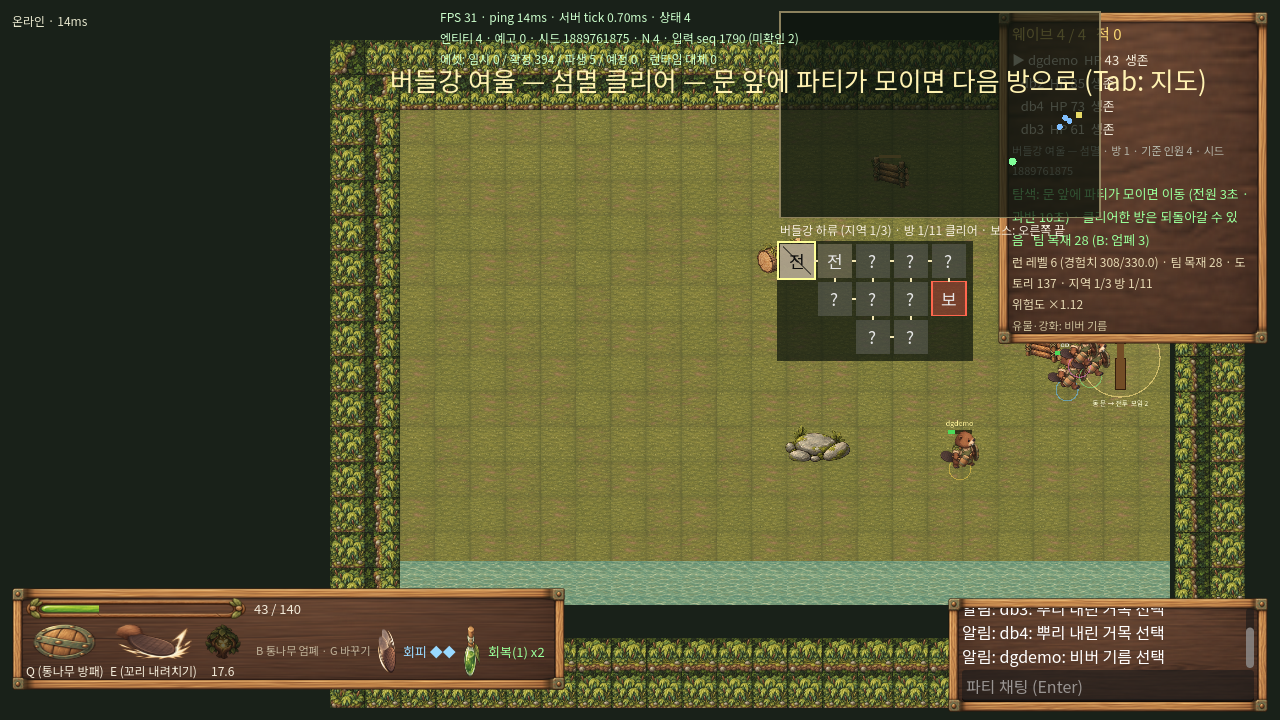
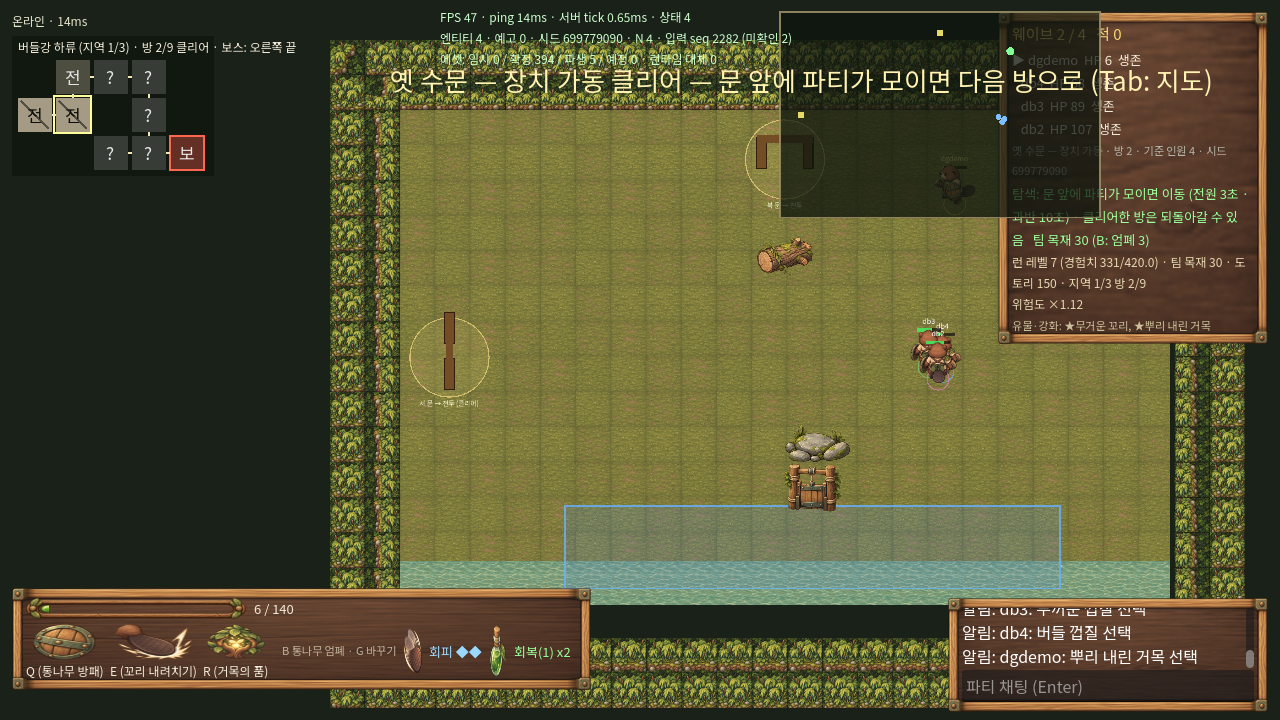
던전 격자 지도를 화면 좌측 상단 구석으로 이동 (DungeonMap 컨트롤 분리)
- client/ui/dungeon_map.gd: 격자·현재 방·보스·문·유형 글자를 그리는 독립 컨트롤, 제목 줄(지역·클리어 수·보스 위치), Tab 확대
- room_hud: 접속 상태 줄 아래 (16, 40) 에 배치. 미니맵은 방 지도만 그린다
- 스크린샷·README·설계 문서 갱신

Claude-Session: https://claude.ai/code/session_01N8xJymo9FGyYVNv94d4Kf7

diff --git a/README.md b/README.md
@@ -38,7 +38,7 @@ scripts/run_client.sh --connect=127.0.0.1:7777
 ## 플레이 흐름
 서버 주소 입력 → 계정 생성/로그인(서버 내부 계정) → 공용 마을(WASD 이동, F 로 NPC 대화·퀘스트, 채팅, 시설 복구, 숙련 특성 선택) → 원정 모집판에서 직업·난이도를 고르고 **새 원정 만들기** 또는 **참가**(최대 4명, 혼자도 가능, 안전 지점 중도 합류) → 준비 완료 → 출정. 처음이면 **튜토리얼** 버튼(혼자, 5분).
 
-원정(3지역, 지역마다 **던파식 방 격자** 5×3에 방 9~11개): 버들강 하류 → 검은 수액 습지 → 고대 뿌리댐. 왼쪽 열의 시작 방에서 오른쪽 끝의 보스 방까지 문으로 이어진 방을 걸어서 고른다. 전투방 클리어 → **보상 3지선다**(유물·스킬 강화·진화) → 같은 방의 **문이 열리고**, 문 앞에 파티가 모이면(전원 3초 · 과반 10초) 옆 방으로 이동. 옆길에는 정예·보물·상점·모닥불·사건 방이 있고, 클리어한 방은 되돌아갈 수 있다(적 재출현 없음). 미니맵(Tab)에 격자·현재 방·보스 위치가 보이고 이웃 방 유형은 옆에 가야 드러난다. 지역 보스 → 다음 지역 → … → 뿌리왕 → 결말(기본/정화). 방 목표는 섬멸·거점·장치·호위 + 정예전. 보상·메뉴·탐색(문 이동 대기) 상태마다 체크포인트가 저장되고, 안전 지점에서 **원정 중단**하면 모집판의 **이어하기**로 같은 자리에서 계속한다.
+원정(3지역, 지역마다 **던파식 방 격자** 5×3에 방 9~11개): 버들강 하류 → 검은 수액 습지 → 고대 뿌리댐. 왼쪽 열의 시작 방에서 오른쪽 끝의 보스 방까지 문으로 이어진 방을 걸어서 고른다. 전투방 클리어 → **보상 3지선다**(유물·스킬 강화·진화) → 같은 방의 **문이 열리고**, 문 앞에 파티가 모이면(전원 3초 · 과반 10초) 옆 방으로 이동. 옆길에는 정예·보물·상점·모닥불·사건 방이 있고, 클리어한 방은 되돌아갈 수 있다(적 재출현 없음). 화면 좌측 상단의 던전 지도에 격자·현재 방·보스 위치가 보이고(Tab 으로 크게) 이웃 방 유형은 옆에 가야 드러난다. 지역 보스 → 다음 지역 → … → 뿌리왕 → 결말(기본/정화). 방 목표는 섬멸·거점·장치·호위 + 정예전. 보상·메뉴·탐색(문 이동 대기) 상태마다 체크포인트가 저장되고, 안전 지점에서 **원정 중단**하면 모집판의 **이어하기**로 같은 자리에서 계속한다.
 
 직업 5종(중복 가능): 수호목수(보호), 톱니전사(연타·열의), 솔방울사수(원거리·표식), 수액주술사(회복·속박·씨앗), 물길공학자(포탑·급류·댐·수압). 스킬마다 변형 2개와 런 중 진화, 직업 숙련 1~10 과 대체 특성 3개.
 

diff --git a/docs/roguelike_design.md b/docs/roguelike_design.md
@@ -48,7 +48,7 @@
 | 던전 모양 | 방 격자, 문으로 연결, 왼쪽 시작 → 오른쪽 보스 | 지역당 5×3 격자. 주 경로 5~8방 + 옆길 1~6방. 보스 칸은 오른쪽 열, 문 하나 |
 | 방 진입 | 문으로 걸어 나가면 화면 전환 | 문 반경(72px) 안에 살아 있는 접속 인원 전원 3초 또는 과반 10초 → 이웃 칸으로. 들어온 문 앞에 부채꼴로 선다 |
 | 문 잠금 | 적을 다 잡아야 열림 | 전투방은 클리어(+보상 선택)까지 잠김. 비전투 방(상점·모닥불·사건·보물)은 메뉴가 끝나면 열림 |
-| 미니맵 | 처음부터 격자와 보스 위치가 보임, 방 종류는 들어가 봐야 앎 | Tab 지도에 격자·현재 방·보스 위치. 이웃 방 유형은 옆 방에 가면 드러남(정예·보물 여부로 옆길 선택) |
+| 미니맵 | 처음부터 격자와 보스 위치가 보임, 방 종류는 들어가 봐야 앎 | 좌측 상단 던전 지도(`DungeonMap`)에 격자·현재 방·보스 위치, Tab 으로 확대. 이웃 방 유형은 옆 방에 가면 드러남(정예·보물 여부로 옆길 선택) |
 | 되돌아가기 | 가능, 적 재출현 없음 | 클리어한 칸은 탐색 방(적 없음, 비밀 조사만)으로 다시 들어감. 시간 위험도는 계속 오르므로 우회에 비용이 있다 |
 | 보상 | 방마다 드랍 | 기존 보상 3지선다 유지(같은 방에서 고른 뒤 문이 열림). 보물 방은 희귀 이상 유물이 섞인 3지선다 |
 
